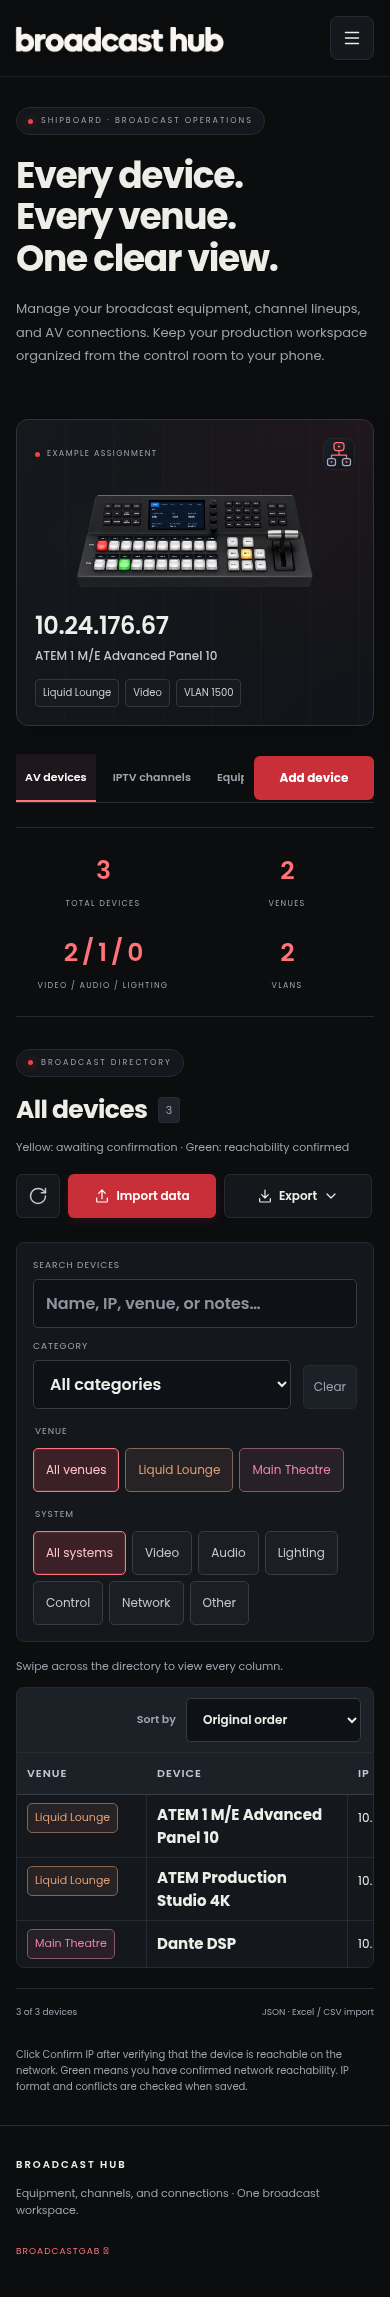
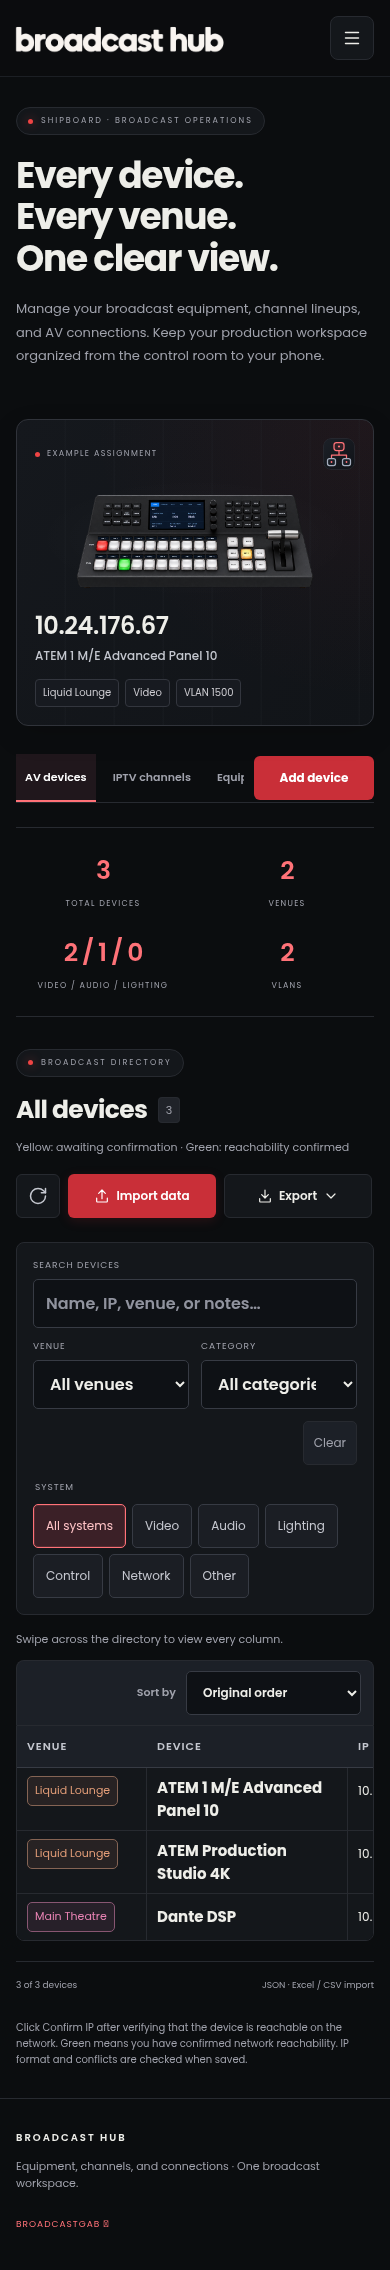
Replace venue filter buttons with a dropdown

diff --git a/static/index.html b/static/index.html
@@ -19,7 +19,7 @@
 <section class="stats" aria-label="Inventory summary"><div><span id="total-label">Total devices</span><strong id="total">—</strong></div><div id="venue-stat"><span>Venues</span><strong id="venue-count">—</strong></div><div><span id="system-count-label">Video / Audio / Lighting</span><strong id="system-count">—</strong></div><div id="vlan-stat"><span>VLANs</span><strong id="vlan-count">—</strong></div></section>
 <section class="inventory-panel" id="inventory" role="tabpanel" aria-labelledby="device-tab">
 <div class="panel-heading"><div><p class="eyebrow">BROADCAST DIRECTORY</p><h2><span id="list-title">All devices</span> <span id="result-count" class="count">0</span></h2><p id="confirmation-legend">Yellow: awaiting confirmation · Green: reachability confirmed</p></div><div class="file-actions" id="transfer"><button id="refresh" class="quiet refresh-button" type="button" aria-label="Refresh" title="Refresh"><svg viewBox="0 0 24 24" aria-hidden="true" focusable="false"><path d="M21 12a9 9 0 1 1-9-9c2.52 0 4.93 1 6.74 2.74L21 8"/><path d="M21 3v5h-5"/></svg></button><button id="import" class="primary import-button" type="button"><svg viewBox="0 0 24 24" aria-hidden="true" focusable="false"><path d="M12 16V3m-5 5 5-5 5 5M4 15v5a1 1 0 0 0 1 1h14a1 1 0 0 0 1-1v-5"/></svg><span>Import data</span></button><details class="export-dropdown"><summary class="export-toggle"><svg viewBox="0 0 24 24" aria-hidden="true" focusable="false"><path d="M12 3v12m-5-5 5 5 5-5M4 16v4a1 1 0 0 0 1 1h14a1 1 0 0 0 1-1v-4"/></svg><span>Export</span><svg class="export-chevron" viewBox="0 0 24 24" aria-hidden="true" focusable="false"><path d="m6 9 6 6 6-6"/></svg></summary><div class="export-links"><a href="/api/export" download>JSON ↓</a><a href="/api/export.csv" download>CSV ↓</a><a href="/api/export.xlsx" class="report-download" download="broadcast-network.xlsx">XLSX ↓</a><a href="/api/export.pdf" class="report-download" download="broadcast-network.pdf">PDF ↓</a></div></details><input id="import-file" type="file" accept=".json,.xlsx,.csv,application/json,application/vnd.openxmlformats-officedocument.spreadsheetml.sheet,text/csv" hidden></div></div>
-<div class="filters directory-filters"><label id="category-filter-label"><span>Category</span><select id="category-filter"><option value="">All categories</option></select></label><button id="clear-filters" class="quiet">Clear</button><label class="search"><span>Search devices</span><input id="search" type="search" placeholder="Name, IP, venue, or notes…"></label><input id="venue-filter" type="hidden"><input id="system-filter" type="hidden"><fieldset id="venue-filter-group" class="button-filter"><legend>Venue</legend><div id="venue-buttons" class="choice-buttons" role="group" aria-label="Filter by venue"></div></fieldset><fieldset id="address-filter-group" class="button-filter" hidden><legend>IP assignment</legend><input id="address-filter" type="hidden"><div id="address-buttons" class="choice-buttons" role="group" aria-label="Filter by IP assignment"></div></fieldset><fieldset id="system-filter-group" class="button-filter"><legend>System</legend><div id="system-buttons" class="choice-buttons" role="group" aria-label="Filter by system"></div></fieldset><fieldset id="source-filter-group" class="button-filter" hidden><legend>Channel source</legend><input id="source-filter" type="hidden"><div id="source-buttons" class="choice-buttons" role="group" aria-label="Filter by channel source"></div></fieldset></div>
+<div class="filters directory-filters"><label id="venue-filter-group"><span>Venue</span><select id="venue-filter"><option value="">All venues</option></select></label><label id="category-filter-label"><span>Category</span><select id="category-filter"><option value="">All categories</option></select></label><button id="clear-filters" class="quiet">Clear</button><label class="search"><span>Search devices</span><input id="search" type="search" placeholder="Name, IP, venue, or notes…"></label><input id="system-filter" type="hidden"><fieldset id="address-filter-group" class="button-filter" hidden><legend>IP assignment</legend><input id="address-filter" type="hidden"><div id="address-buttons" class="choice-buttons" role="group" aria-label="Filter by IP assignment"></div></fieldset><fieldset id="system-filter-group" class="button-filter"><legend>System</legend><div id="system-buttons" class="choice-buttons" role="group" aria-label="Filter by system"></div></fieldset><fieldset id="source-filter-group" class="button-filter" hidden><legend>Channel source</legend><input id="source-filter" type="hidden"><div id="source-buttons" class="choice-buttons" role="group" aria-label="Filter by channel source"></div></fieldset></div>
 <p id="load-error" class="error banner" role="alert" hidden></p>
 <div id="loading" class="empty">Loading your inventory…</div>
 <div id="empty" class="empty" hidden><div class="empty-icon" aria-hidden="true">⌘</div><h3 id="empty-title">Your inventory starts here</h3><p id="empty-description">Add your first device to keep your ship’s AV network organized.</p><button id="empty-add" class="primary">Add a device</button><button id="use-example" class="quiet">Fill ATEM example</button></div>

diff --git a/static/app.js b/static/app.js
@@ -179,7 +179,7 @@ function makeButtons(id, values, selected, onSelect, allLabel = null) {
     const button = element('button', 'choice-button', label);
     button.type = 'button';
     button.dataset.value = value;
-    if (['venue-buttons', 'form-venue-buttons'].includes(id)) colorVenueButton(button, value);
+    if (id === 'form-venue-buttons') colorVenueButton(button, value);
     button.setAttribute('aria-pressed', String(value === selected));
     button.onclick = () => onSelect(value);
     return button;
@@ -188,17 +188,22 @@ function makeButtons(id, values, selected, onSelect, allLabel = null) {
 function syncButtons(id, value) {
   $(id).querySelectorAll('button').forEach(button => button.setAttribute('aria-pressed', String(button.dataset.value === value)));
 }
-function updateVenueButtons() {
+function updateVenueFilter() {
   const venues = savedVenues();
-  if (!venues.includes($('venue-filter').value)) $('venue-filter').value = '';
-  makeButtons('venue-buttons', venues, $('venue-filter').value, value => { $('venue-filter').value = value; render(); }, 'All venues');
+  const selected = $('venue-filter').value;
+  $('venue-filter').replaceChildren(new Option('All venues', ''), ...venues.map(venue => {
+    const option = new Option(venue, venue);
+    colorVenueButton(option, venue);
+    return option;
+  }));
+  $('venue-filter').value = venues.includes(selected) ? selected : '';
 }
 makeButtons('system-buttons', systems, '', value => { $('system-filter').value = value; render(); }, 'All systems');
 makeButtons('source-buttons', ['Onboard','Satellite'], '', value => { $('source-filter').value = value; render(); }, 'All sources');
 makeButtons('address-buttons', ['DHCP'], '', value => { $('address-filter').value = value; render(); }, 'All addresses');
 makeButtons('form-source-buttons', ['Onboard','Satellite'], '', value => { form.elements.channel_source.value = form.elements.channel_source.value === value ? '' : value; syncButtons('form-source-buttons', form.elements.channel_source.value); });
 function updateFilterOptions() {
-  updateVenueButtons();
+  updateVenueFilter();
   options('category-filter', tabDevices().map(d => d.category));
   $('venues').replaceChildren(...savedVenues().map(v => new Option(v, v)));
 }
@@ -357,7 +362,9 @@ function render() {
   $('directory-vlan-title').hidden = iptvDirectory;
   $('directory-device-title').textContent = iptvDirectory ? 'CHANNEL' : 'DEVICE';
   $('directory-system-title').textContent = iptvDirectory ? 'SOURCE' : 'SYSTEM';
-  syncButtons('venue-buttons', $('venue-filter').value);
+  $('venue-filter').classList.remove('venue-choice');
+  $('venue-filter').style.removeProperty('--venue-color');
+  colorVenueButton($('venue-filter'), $('venue-filter').value);
   syncButtons('system-buttons', $('system-filter').value);
   syncButtons('source-buttons', $('source-filter').value);
   syncButtons('address-buttons', $('address-filter').value);

diff --git a/static/style.css b/static/style.css
@@ -360,13 +360,13 @@ button.system-select{display:flex;justify-content:space-between;align-items:cent
 .network-card-top>span::before{content:"";width:5px;height:5px;flex-shrink:0;border-radius:50%;background:var(--accent)}
 @media(max-width:600px){.network-card{justify-self:start}}
 
-.directory-filters{grid-template-columns:minmax(150px,220px) auto minmax(0,1fr)}
-.directory-filters>.search{grid-column:3;grid-row:1;width:100%;max-width:360px;justify-self:end}
+.directory-filters{grid-template-columns:minmax(160px,220px) minmax(150px,200px) auto minmax(0,1fr)}
+.directory-filters>.search{grid-column:4;grid-row:1;width:100%;max-width:360px;justify-self:end}
 .directory-toolbar{display:flex;justify-content:flex-end;margin-top:20px;padding:10px 12px;background:#1c2027;border:1px solid var(--border);border-bottom:0;border-radius:8px 8px 0 0}
 .directory-toolbar>label{display:flex;flex-direction:row;align-items:center;gap:10px;font-size:11px;color:var(--muted);white-space:nowrap}
 .directory-toolbar select{width:180px;font-size:12px}
 .directory-toolbar+.device-directory{margin-top:0;border-radius:0 0 8px 8px}
-@media(max-width:600px){.directory-filters{grid-template-columns:1fr auto}.directory-filters>.search{grid-column:1/-1;grid-row:1;max-width:none}.directory-filters>#clear-filters{grid-column:2}.directory-toolbar select{width:175px}}
+@media(max-width:600px){.directory-filters{grid-template-columns:1fr 1fr}.directory-filters>.search{grid-column:1/-1;grid-row:1;max-width:none}.directory-filters>#venue-filter-group{grid-column:1}.directory-filters>#category-filter-label{grid-column:2}.directory-filters>#clear-filters{grid-column:1/-1;justify-self:end}.directory-toolbar select{width:175px}}
 
 /* Keep the transfer toolbar controls aligned and equally sized. */
 .file-actions .import-button,.file-actions .export-toggle{width:148px;height:44px;min-height:44px;flex-shrink:0;justify-content:center;padding:0 10px;font-size:13px;font-weight:600;line-height:1.2}
@@ -405,3 +405,7 @@ button.system-select{display:flex;justify-content:space-between;align-items:cent
   .menu-open #main-navigation{display:flex}
   #main-navigation a{font-size:11px;padding:12px;min-height:44px}
 }
+
+#venue-filter.venue-choice{color:var(--venue-color);border-color:color-mix(in srgb,var(--venue-color) 50%,var(--border))}
+#venue-filter option{color:#eeeee9;background:#0e1115}
+#venue-filter option.venue-choice{color:var(--venue-color)}

diff --git a/tests/browser_check.py b/tests/browser_check.py
@@ -97,7 +97,7 @@ with tempfile.TemporaryDirectory() as temp:
             page.locator('#system-buttons').get_by_role('button', name='Audio', exact=True).click()
             assert page.locator('#no-results').is_visible()
             page.get_by_role('button', name='Clear', exact=True).click()
-            page.locator('#venue-buttons').get_by_role('button', name='Liquid Lounge', exact=True).click()
+            page.locator('#venue-filter').select_option('Liquid Lounge')
             page.locator('#category-filter').select_option('Video switcher')
             assert page.locator('.device-row').count() == 1
             page.locator('#search').fill('not found')
@@ -141,16 +141,15 @@ with tempfile.TemporaryDirectory() as temp:
             page.locator('[name=ip]').fill('10.24.176.67')
             page.locator('[name=vlan]').fill('1500')
             page.get_by_role('button', name='Save device', exact=True).click()
-            theater = page.locator('#venue-buttons').get_by_role('button', name='Theater', exact=True)
-            theater.wait_for()
-            theater.click()
+            theater = page.locator('#venue-filter')
+            theater.select_option('Theater')
             page.locator('#system-buttons').get_by_role('button', name='Audio', exact=True).click()
-            assert theater.get_attribute('aria-pressed') == 'true'
+            assert theater.input_value() == 'Theater'
             assert page.locator('.device-row').count() == 1
             assert page.locator('.device-name').inner_text() == 'Audio console'
             page.locator('#system-buttons').get_by_role('button', name='Video', exact=True).click()
             assert page.locator('#no-results').is_visible()
-            page.locator('#venue-buttons').get_by_role('button', name='All venues', exact=True).click()
+            page.locator('#venue-filter').select_option('')
             assert page.locator('.device-name').inner_text() == 'ATEM main'
             page.get_by_role('button', name='Clear', exact=True).click()
             assert page.locator('.device-row').count() == 2
@@ -370,11 +369,11 @@ with tempfile.TemporaryDirectory() as temp:
             assert all(r['notes'] == '' for r in app.inventory() if r['name'].startswith('CSV '))
             assert all(r['category'] == '' for r in app.inventory() if r['name'].startswith('CSV '))
             assert {r['name']:r['discipline'] for r in app.inventory() if r['name'].startswith('CSV ')} == {'CSV switcher':'Network','CSV camera':'Video','CSV lights':'Lighting'}
-            venues = page.locator('#venue-buttons button').all_text_contents()
+            venues = page.locator('#venue-filter option').all_text_contents()
             assert venues[-2:] == ['Main Lounge', 'POOL DECK'], venues
             assert venues.count('Main Lounge') == 1
             assert all(r['venue'] == 'Main Lounge' for r in app.inventory() if r['name'] in ['CSV camera', 'CSV switcher'])
-            colors = page.locator('#venue-buttons .venue-choice').evaluate_all('(nodes) => nodes.map(n => getComputedStyle(n).color)')
+            colors = page.locator('#venue-filter option.venue-choice').evaluate_all('(nodes) => nodes.map(n => getComputedStyle(n).color)')
             assert len(set(colors)) == len(colors)
             warnings = page.locator('#import-warnings')
             assert warnings.is_visible()
@@ -382,11 +381,11 @@ with tempfile.TemporaryDirectory() as temp:
             assert 'Row 6:' in warnings.inner_text() and '10.24.176.66' in warnings.inner_text()
             assert page.locator('#import-warning-list li').count() == 2
             assert not page.get_by_role('button', name='Edit Repeated switcher', exact=True).count()
-            main_venue = page.locator('#venue-buttons').get_by_role('button', name='Main Lounge', exact=True)
-            main_color = main_venue.evaluate('(n) => getComputedStyle(n).color')
+            main_venue = page.locator('#venue-filter')
+            main_color = main_venue.locator('option[value="Main Lounge"]').evaluate('(n) => getComputedStyle(n).color')
             assert main_color == preview_colors[0]
-            main_venue.click()
-            assert main_venue.get_attribute('aria-pressed') == 'true'
+            main_venue.select_option('Main Lounge')
+            assert main_venue.input_value() == 'Main Lounge'
             assert main_venue.evaluate('(n) => getComputedStyle(n).color') == main_color
             assert page.locator('.device-row').count() == 2
             assert page.locator('.device-row').filter(has_text='CSV camera').locator('.ip-cell .cell-caption').inner_text() == ''
@@ -564,7 +563,7 @@ with tempfile.TemporaryDirectory() as temp:
             page.locator('#address-buttons').get_by_role('button', name='DHCP', exact=True).click()
             assert page.locator('.device-row').count() == 3
             assert not page.locator('.device-row .ip-confirm').count()
-            page.locator('#venue-buttons').get_by_role('button', name='DHCP LOUNGE', exact=True).click()
+            page.locator('#venue-filter').select_option('DHCP LOUNGE')
             assert page.locator('.device-row').count() == 2
             page.locator('#clear-filters').click()
             # Stopping leaves accepted DHCP rows saved and remaining rows untouched.
@@ -580,7 +579,7 @@ with tempfile.TemporaryDirectory() as temp:
             assert any(d['name'] == 'Accepted before stop' for d in app.inventory())
             assert not any(d['name'] == 'Never accepted' for d in app.inventory())
             page.reload()
-            page.locator('#venue-buttons').get_by_role('button', name='Main Lounge', exact=True).wait_for()
+            page.locator('#venue-filter option[value="Main Lounge"]').wait_for(state='attached')
             assert page.get_by_role('combobox', name='System for Unassigned camera', exact=True).get_attribute('data-value') == 'Video'
             assert page.locator('#directory-head span:not(.sr-only)').all_text_contents() == ['VENUE','DEVICE','IP','VLAN','SYSTEM','NOTES']
             assert page.locator('.device-row').first.locator(':scope > div').evaluate_all('(nodes) => nodes.map(n => n.className)') == ['venue-cell','device-identity identity-cell','ip-cell','vlan-cell','system-cell','notes-cell','row-actions']
@@ -626,7 +625,7 @@ with tempfile.TemporaryDirectory() as temp:
             with page.expect_response(lambda response: response.url.endswith('/notes') and response.request.method == 'POST'):
                 notes_input.press('Tab')
             assert next(r for r in app.inventory() if r['name'] == 'Unassigned camera')['notes'] == ''
-            assert page.locator('#venue-buttons').get_by_role('button', name='Main Lounge', exact=True).evaluate('(n) => getComputedStyle(n).color') == main_color
+            assert page.locator('#venue-filter option[value="Main Lounge"]').evaluate('(n) => getComputedStyle(n).color') == main_color
             page.locator('#address-buttons').get_by_role('button', name='DHCP', exact=True).click()
             assert page.locator('.device-row').count() == 4
             assert not page.locator('.device-row .ip-confirm').count()
